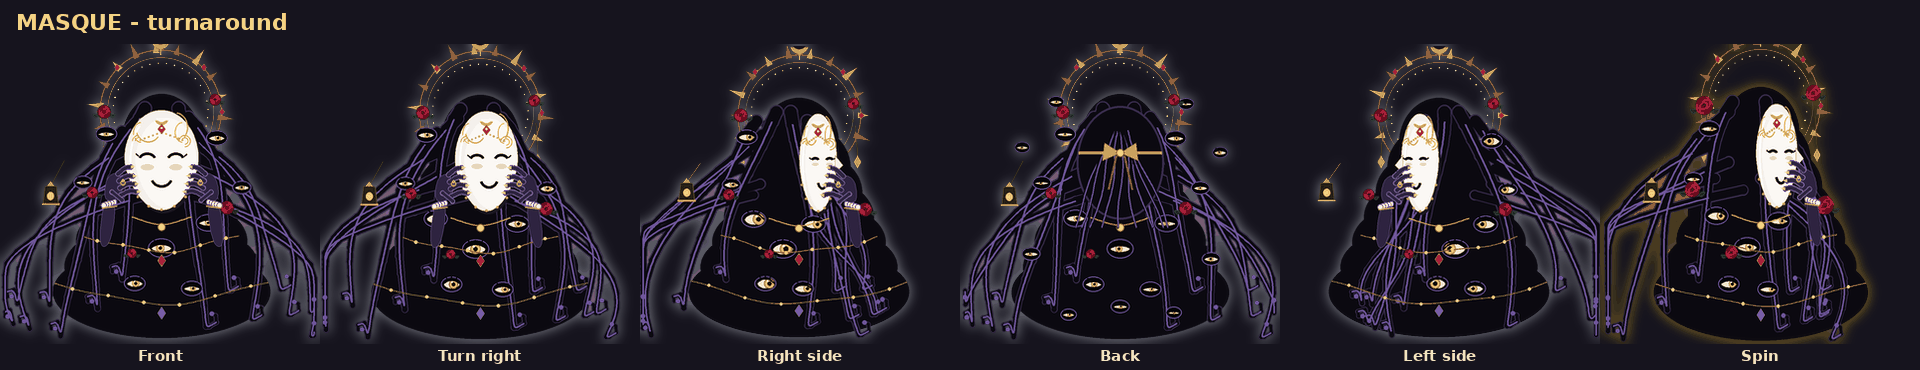
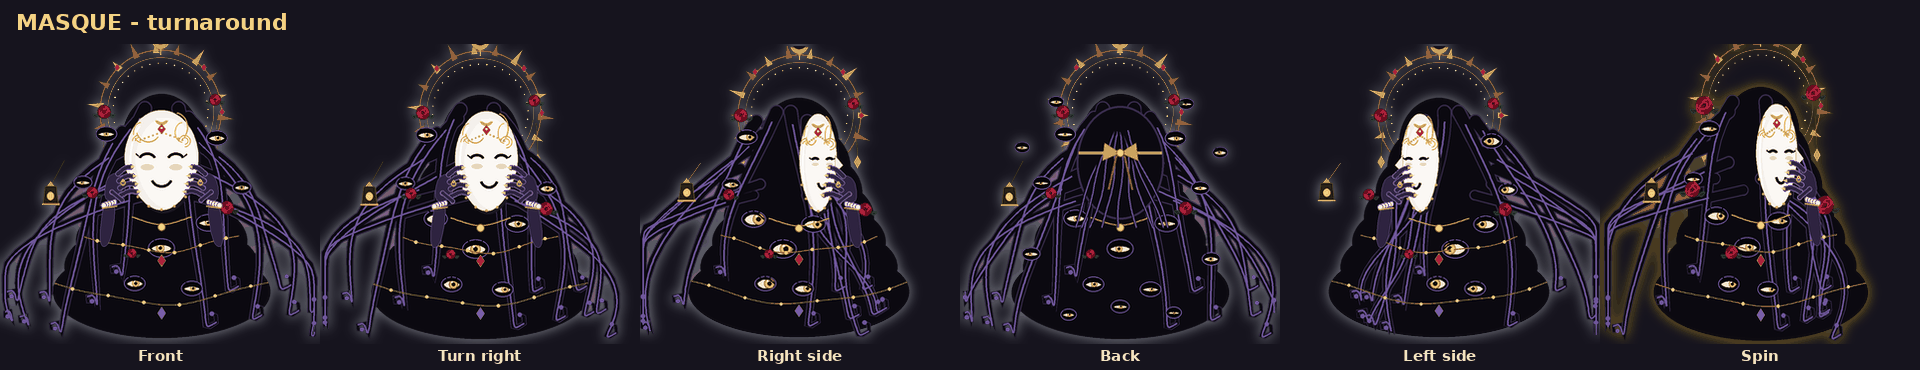
Masque: braided colours for mixed tools, visible mask swaps, session-end form; faster drawing
- Several kinds of tools at once braid their colours through the mane, and
  each raised tendril holds its own tool's glyph in its own colour.
- When her mood changes (calm, working, failure, asking), a tendril carries
  the old mask away while the new one settles on.
- When the session ends she folds in small, with a smiling mask and a rose.
- Tendrils are drawn as one tapered shape each, and thin lines skip rounded
  joints: Masque frames render ~20% faster (43 -> 34 ms) with the same look.
- Sheets regenerated with the new forms.

Claude-Session: https://claude.ai/code/session_01PQo4QqTtKQd9uCasapaCKQ

diff --git a/hermes_companion/animation/masque.py b/hermes_companion/animation/masque.py
@@ -102,31 +102,49 @@ class MasqueState:
     danger: bool = False       # a destructive command is waiting for approval
     think_until: float = 0.0
     beat_until: float = 0.0
+    tools: list = field(default_factory=list)   # categories of the tools in flight
+    swap_until: float = 0.0    # a tendril is pulling a new mask over the face
+    rest_until: float = 0.0    # session over: folded in, a small smiling mask and a rose
     clock: object = field(default=time.monotonic, repr=False)
+
+    def _mood(self) -> str:
+        return {"failure": "sad", "approval": "ask"}.get(self.category, "work" if self.running else "calm")
 
     def observe(self, ev) -> None:
         kind = getattr(ev.kind, "value", str(ev.kind))
         now = self.clock()
         cat = ev.category or "general"
+        before = self._mood()
+        self._apply(kind, cat, now)
+        if self._mood() != before:                  # her mood changed: swap the mask on screen
+            self.swap_until = now + 0.8
+
+    def _apply(self, kind: str, cat: str, now: float) -> None:
+        if kind != "agent.idle" and kind != "task.complete":
+            self.rest_until = 0.0
         if kind == "agent.started":
             self.work, self.running, self.helpers = 0, 0, 0
+            self.tools = []
         elif kind == "user.prompt_submitted":
             self.think_until = now + 3.0
         elif kind == "tool.started":
             self.running = min(self.running + 1, 6)
             self.work += 1
             self.category = cat
+            self.tools = (self.tools + [cat])[-6:]
         elif kind == "tool.progress":
             self.beat_until = now + 1.5
             self.category = cat
         elif kind == "tool.finished":
             self.running = max(0, self.running - 1)
+            self._done(cat)
             self.streak += 1
             if self.streak >= 3 and self.cracks:
                 self.cracks -= 1
                 self.streak = 0
         elif kind == "tool.failed":
             self.running = max(0, self.running - 1)
+            self._done(cat)
             self.cracks = min(self.cracks + 1, 3)
             self.streak = 0
             self.category = "failure"
@@ -146,6 +164,22 @@ class MasqueState:
         elif kind in ("agent.idle", "task.complete"):
             self.running, self.helpers, self.danger = 0, 0, False
             self.category = "general"
+            self.tools = []
+            self.rest_until = now + 8.0
+
+    def _done(self, cat: str) -> None:
+        if cat in self.tools:
+            self.tools.remove(cat)
+        elif self.tools:
+            self.tools.pop(0)
+
+    @property
+    def swapping(self) -> bool:
+        return self.clock() < self.swap_until
+
+    @property
+    def resting(self) -> bool:
+        return self.clock() < self.rest_until
 
     @property
     def thinking(self) -> bool:
@@ -158,7 +192,8 @@ class MasqueState:
     def key(self) -> tuple:
         size = min(4, self.work // 6)
         return (self.category, self.cracks, size, self.running, self.helpers,
-                self.danger, self.thinking, self.pulsing)
+                self.danger, self.thinking, self.pulsing, tuple(self.tools), self.swapping,
+                self.resting)
 
 
 STATE = MasqueState()
@@ -282,12 +317,29 @@ def _mix(a: str, b: str, t: float) -> str:
 
 
 def _strand(canvas, pts, w0, w1, fill, sheen=None):
-    """A tapered tendril along pts (thick at the root, fine at the tip)."""
-    n = len(pts) - 1
-    for i in range(n):
-        w = w0 + (w1 - w0) * i / max(1, n - 1)
-        canvas.create_line(pts[i][0], pts[i][1], pts[i + 1][0], pts[i + 1][1],
-                           fill=fill, width=max(1.0, w), capstyle="round")
+    """A tapered tendril along pts (thick at the root, fine at the tip).
+
+    Drawn as one filled outline instead of a line per segment: the same look,
+    a fraction of the drawing work (Masque draws dozens of these per frame).
+    """
+    n = len(pts)
+    if n < 2:
+        return
+    left, right = [], []
+    for i, (x, y) in enumerate(pts):
+        ax, ay = pts[max(0, i - 1)]
+        bx, by = pts[min(n - 1, i + 1)]
+        dx, dy = bx - ax, by - ay
+        ln = math.hypot(dx, dy) or 1.0
+        nx, ny = -dy / ln, dx / ln
+        half = max(0.6, (w0 + (w1 - w0) * i / (n - 1)) / 2)
+        left.append((x + nx * half, y + ny * half))
+        right.append((x - nx * half, y - ny * half))
+    outline = left + right[::-1]
+    canvas.create_polygon(*[c for q in outline for c in q], fill=fill, outline="")
+    r0 = w0 / 2                                              # a rounded root
+    canvas.create_oval(pts[0][0] - r0, pts[0][1] - r0, pts[0][0] + r0, pts[0][1] + r0,
+                       fill=fill, outline="")
     if sheen:
         flat = [c for p in pts[1:-1] for c in p]
         if len(flat) >= 4:
@@ -662,6 +714,8 @@ def draw_masque(canvas, pose: str, progress: float = 0.0, palette: str | None = 
     osc = math.sin(p * 2 * math.pi)
     own = MASQUE_MOVES.get(pose)
     fx = set(own[1]) if own else set()
+    if st.resting and own is None and pose in ("idle_bob", "celebrate", "sleep", "smug", "excited"):
+        fx |= {"coil", "shrink", "rest", "mask:cute"}            # session over: folded in, a rose
     form = FORM_OF_POSE.get(pose)
     if form is None and own is None and st.running and pose not in ("idle_bob", "sleep"):
         form = CATEGORY_FORM.get(st.category)
@@ -754,11 +808,15 @@ def draw_masque(canvas, pose: str, progress: float = 0.0, palette: str | None = 
         _strand(canvas, pts, w0 + 2.4, 4.0, "#3a2d4d")
     for pts, w0 in strands:                                # then thick ink
         _strand(canvas, pts, w0, 2.5, INK)
-    for pts, w0 in strands:                                # sheen catches the colour of the work
+    # sheen catches the colour of the work - several kinds of tools at once braid their colours
+    kinds = list(dict.fromkeys(st.tools)) if len(set(st.tools)) > 1 else []
+    tints = [_mix("#3b2a55", CATEGORY_COLOUR.get(c, colour), 0.6) for c in kinds] or [tint]
+    for i, (pts, w0) in enumerate(strands):
+        tn = tints[i % len(tints)]
         flat = [c for q in pts[1:-2] for c in q]
-        canvas.create_line(*flat, fill=tint, width=1.6, smooth=True)
+        canvas.create_line(*flat, fill=tn, width=1.6, smooth=True)
         tx, ty = pts[-1]
-        canvas.create_oval(tx - 2.2, ty - 2.2, tx + 2.2, ty + 2.2, fill=tint, outline="")
+        canvas.create_oval(tx - 2.2, ty - 2.2, tx + 2.2, ty + 2.2, fill=tn, outline="")
 
     # 3. eyes in the dark
     eye_count = int(9 * eyes_k + (9 if st.thinking or "alleyes" in fx or back else 0))
@@ -822,8 +880,11 @@ def draw_masque(canvas, pose: str, progress: float = 0.0, palette: str | None = 
         tip = (rx + side * (40 + 14 * j) + 6 * osc, 40 + 18 * j - 8 * abs(osc))
         pts = [(rx, ry)] + [((rx * (1 - t) + tip[0] * t) + side * 18 * math.sin(t * math.pi),
                              ry * (1 - t) + tip[1] * t) for t in (0.25, 0.5, 0.75, 1.0)]
-        _strand(canvas, pts, 7, 3, INK, sheen=colour)
-        glyph(canvas, gl, min(max(tip[0], 14), FRAME[0] - 14), max(tip[1], 14), 10, colour)
+        cat_j = st.tools[j] if j < len(st.tools) else None     # each tendril holds its own tool
+        col_j = CATEGORY_COLOUR.get(cat_j, colour) if cat_j else colour
+        gl_j = CATEGORY_GLYPH.get(cat_j, gl) if cat_j else gl
+        _strand(canvas, pts, 7, 3, INK, sheen=col_j)
+        glyph(canvas, gl_j, min(max(tip[0], 14), FRAME[0] - 14), max(tip[1], 14), 10, col_j)
 
     # 7. hands holding the mask (delicate, gold rings)
     hands_later: list = []                                   # drawn over the mask's edges
@@ -869,6 +930,13 @@ def draw_masque(canvas, pose: str, progress: float = 0.0, palette: str | None = 
 
     for hx_, hy_, k in hands_later:                          # fingers curl over the mask's edge
         _hand(canvas, hx_, hy_, k, p)
+    if st.swapping and not back:                             # a tendril carries the old mask away
+        ox, oy = mcx + mw + 46 + 14 * p, mcy - 10 - 10 * p
+        _strand(canvas, [(mcx + 30, mcy + 40), (mcx + mw + 20, mcy + 20), (ox - 10, oy + 26)], 7, 3,
+                INK, sheen=colour)
+        draw_mask(canvas, ox, oy, mw * 0.55, mh * 0.55, "blank", lace=False, p=p)
+    if "rest" in fx and not back:                            # the small smile keeps a rose
+        _rose(canvas, mcx, mcy + mh + 12, 9)
 
     # 9. front effects
     _effects(canvas, fx, form, mcx, mcy, mw, mh, p, osc, colour, st, pose)

diff --git a/hermes_companion/tests/test_masque.py b/hermes_companion/tests/test_masque.py
@@ -170,3 +170,41 @@ def test_hands_are_drawn_over_the_mask_and_the_perch_has_a_window():
     calls.clear()
     M.draw_masque(Rec(), "window_perch", 0.3)
     assert ("create_rectangle", "#2d3a58", "#6a7dab") in calls   # the title bar
+
+
+def test_mixed_tools_each_hold_their_own_colour(st):
+    st.observe(ev("tool.started", "terminal"))
+    st.observe(ev("tool.started", "web"))
+    st.observe(ev("tool.started", "memory"))
+    assert st.tools == ["terminal", "web", "memory"]
+    st.observe(ev("tool.finished", "web"))
+    assert st.tools == ["terminal", "memory"]
+
+
+def test_mood_change_swaps_the_mask_and_session_end_rests(st):
+    st.observe(ev("tool.started", "terminal"))
+    assert st.swapping                                   # calm -> work: a new mask
+    st.now[0] += 2
+    assert not st.swapping
+    st.observe(ev("tool.started", "web"))
+    assert not st.swapping                               # still working: same mask
+    st.observe(ev("task.complete"))
+    assert st.resting and st.tools == []
+    st.observe(ev("agent.started"))
+    assert not st.resting
+
+
+def test_session_end_and_swap_change_the_picture():
+    from hermes_companion.renderer.smooth import FrameRenderer
+    saved = dict(M.STATE.__dict__)
+    try:
+        r = FrameRenderer("masque", glow=False, squash=False)
+        M.STATE.__dict__.update(running=0, cracks=0, category="general", helpers=0, tools=[],
+                                swap_until=0.0, rest_until=0.0)
+        plain = r.frame("idle_bob", 0.3).tobytes()
+        M.STATE.rest_until = 1e12
+        assert r.frame("idle_bob", 0.3).tobytes() != plain
+        M.STATE.rest_until, M.STATE.swap_until = 0.0, 1e12
+        assert r.frame("idle_bob", 0.3).tobytes() != plain
+    finally:
+        M.STATE.__dict__.update(saved)

diff --git a/hermes_companion/scripts/masque_sheets.py b/hermes_companion/scripts/masque_sheets.py
@@ -15,7 +15,7 @@ from hermes_companion.renderer.smooth import FrameRenderer, _font
 
 BG = (22, 20, 30, 255)
 RESET = dict(category="general", cracks=0, work=0, running=0, helpers=0, danger=False,
-             think_until=0.0, beat_until=0.0)
+             think_until=0.0, beat_until=0.0, tools=[], swap_until=0.0, rest_until=0.0)
 
 TURNAROUND = [("Front", "idle_bob", 0.2, {}), ("Turn right", "turn_right", 0.15, {}),
               ("Right side", "turn_right", 0.6, {}), ("Back", "turn_back", 0.3, {}),
@@ -40,7 +40,12 @@ FORMS = [("Terminal / code", "terminal_work", {"running": 2, "category": "termin
          ("Helpers", "open_portal", {"helpers": 3, "category": "delegation"}),
          ("Approval needed", "wait", {"category": "approval"}),
          ("Long tool", "work", {"running": 1, "category": "terminal", "beat_until": 1e12}),
-         ("Session ends", "sleep", {})]
+         ("Mixed tools", "work", {"running": 3, "category": "memory",
+                                  "tools": ["terminal", "web", "memory"]}),
+         ("Mask swap", "work", {"running": 1, "category": "terminal", "tools": ["terminal"],
+                                "swap_until": 1e12}),
+         ("Session ends", "idle_bob", {"rest_until": 1e12}),
+         ("Asleep", "sleep", {})]
 
 
 def _cell(r, label, pose, t, state):

diff --git a/hermes_companion/renderer/smooth.py b/hermes_companion/renderer/smooth.py
@@ -98,7 +98,9 @@ class PILCanvas:
             pts = _chaikin(pts, closed=False)
         width = self._w(kw)
         fill = _color(kw.get("fill")) or "#000000"
-        self.d.line(pts, fill=fill, width=width, joint="curve")
+        # Rounded joints only matter on thick strokes; on thin ones they are
+        # invisible but cost a pie-slice per vertex (Masque draws thousands).
+        self.d.line(pts, fill=fill, width=width, joint="curve" if width > 7 else None)
         if kw.get("capstyle") == "round" and width > 2:
             r = width / 2
             for x, y in (pts[0], pts[-1]):
